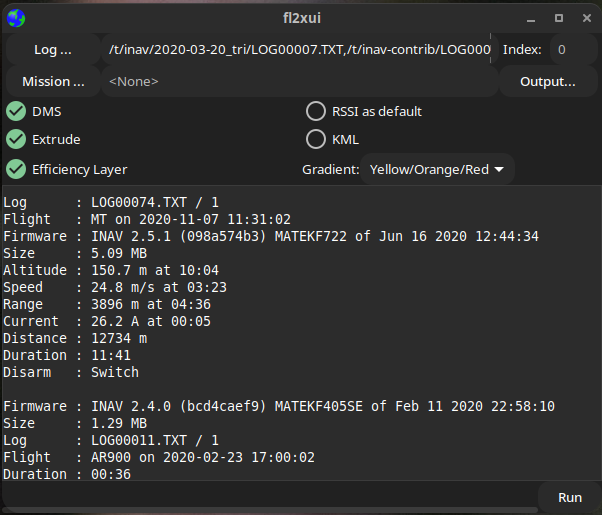
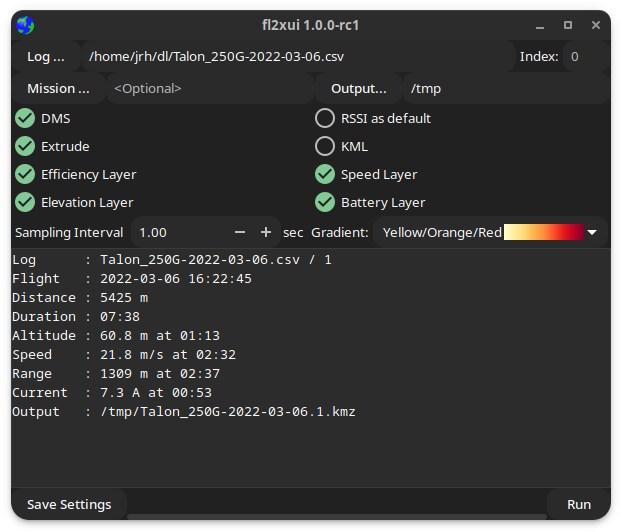
Deployed c1b7da1 with MkDocs version: 1.3.0

Changed region(s): [[0.0, 0.0, 1.0, 1.0], [0.1794, 0.1553, 0.299, 0.1864]]

diff --git a/index.html b/index.html
@@ -14,7 +14,7 @@
       
       
       <link rel="icon" href="assets/images/favicon.png">
-      <meta name="generator" content="mkdocs-1.2.3, mkdocs-material-7.3.6">
+      <meta name="generator" content="mkdocs-1.3.0, mkdocs-material-7.3.6">
     
     
       
@@ -235,8 +235,8 @@
       <ul class="md-nav__list">
         
           <li class="md-nav__item">
-  <a href="#linux-dark-theme" class="md-nav__link">
-    Linux (dark theme)
+  <a href="#linux-freebsd-dark-theme" class="md-nav__link">
+    Linux /FreeBSD (dark theme)
   </a>
   
 </li>
@@ -297,8 +297,8 @@
 </li>
         
           <li class="md-nav__item">
-  <a href="#progress-bar-and-run-button-4" class="md-nav__link">
-    Progress bar and Run button (4)
+  <a href="#progress-bar-save-settings-run-button-4" class="md-nav__link">
+    Progress bar / Save Settings / Run button (4)
   </a>
   
 </li>
@@ -413,8 +413,8 @@
       <ul class="md-nav__list">
         
           <li class="md-nav__item">
-  <a href="#linux-dark-theme" class="md-nav__link">
-    Linux (dark theme)
+  <a href="#linux-freebsd-dark-theme" class="md-nav__link">
+    Linux /FreeBSD (dark theme)
   </a>
   
 </li>
@@ -475,8 +475,8 @@
 </li>
         
           <li class="md-nav__item">
-  <a href="#progress-bar-and-run-button-4" class="md-nav__link">
-    Progress bar and Run button (4)
+  <a href="#progress-bar-save-settings-run-button-4" class="md-nav__link">
+    Progress bar / Save Settings / Run button (4)
   </a>
   
 </li>
@@ -564,7 +564,7 @@
 <h2 id="overview">Overview<a class="headerlink" href="#overview" title="Permanent link">#</a></h2>
 <p><a href="https://github.com/stronnag/fl2xui">fl2xui</a> is a cross-platform  GUI for the <a href="https://github.com/stronnag/bbl2kml">flightlog2kml</a> tool that converts (<a href="https://github.com/iNavFlight/inav">inav</a>) flight logs to beautiful, annotated KML or KMZ files for visualisation in Google Earth.</p>
 <p><a href="https://github.com/stronnag/fl2xui">fl2xui</a> provides a consistent user interface across Linux, FreeBSD, MacOS and Windows.</p>
-<h3 id="linux-dark-theme">Linux (dark theme)<a class="headerlink" href="#linux-dark-theme" title="Permanent link">#</a></h3>
+<h3 id="linux-freebsd-dark-theme">Linux /FreeBSD (dark theme)<a class="headerlink" href="#linux-freebsd-dark-theme" title="Permanent link">#</a></h3>
 <p><img alt="Linux" src="images/linux.png" width="40%" /></p>
 <h3 id="macos">MacOS<a class="headerlink" href="#macos" title="Permanent link">#</a></h3>
 <p><img alt="MacOS" src="images/macos.png" width="40%" /></p>
@@ -575,9 +575,11 @@
 <li>Multiple logs (Blackbox, OTX/ETX CSV)</li>
 <li>Summary information</li>
 <li>Easy access to common visualisation options.</li>
+<li>Save current settings as default</li>
 </ul>
 <h2 id="user-interface">User Interface<a class="headerlink" href="#user-interface" title="Permanent link">#</a></h2>
-<p><img alt="Linux" src="images/annotated-ui.png" width="60%" /></p>
+<p><img alt="Annotated UI" src="images/annotated-ui.png" width="40%" /></p>
+<p>Note: The image refers to an earlier release; however the general concept is extant.</p>
 <h3 id="file-index-selection-area-1">File / index selection area (1)<a class="headerlink" href="#file-index-selection-area-1" title="Permanent link">#</a></h3>
 <ul>
 <li><strong>Log...</strong> : Opens a file chooser to select log files. Multiple files may be selected. The files may be a combination of Blackbox logs or OpenTX / EdgeTX CSV logs.</li>
@@ -595,11 +597,14 @@
 <p>On Linux / FreeBSD, you can also drag and drop logs and mission files into this area, at least with the Gnome desktop environment.</p>
 </div>
 <ul>
-<li><strong>DMS</strong> : Display positions as degrees / minutes / seconds (<code>DD:MM:SS.sss</code>) vice decimal degress (<code>DD.dddddd</code>).</li>
+<li><strong>DMS</strong> : Display positions as degrees / minutes / seconds (<code>DD:MM:SS.sss</code>) vice decimal degrees (<code>DD.dddddd</code>).</li>
 <li><strong>Extrude</strong> : Extrude flight points the ground.</li>
-<li><strong>Efficiency Layer</strong> : Include an efficiency layer in the output.</li>
 <li><strong>RSSI as default</strong> : Set the RSSI layer as the default (vice Flight Mode).</li>
 <li><strong>KML</strong> : Generate uncompressed KML (vice compressed KMZ).</li>
+<li><strong>Efficiency Layer</strong> : Include an efficiency layer in the output.</li>
+<li><strong>Elevation Layer</strong> : Include an elevation layer in the output.</li>
+<li><strong>Speed Layer</strong> : Include a speed layer in the output.</li>
+<li><strong>Battery Layer</strong> : Include a battery (VBAT) layer in the output.</li>
 <li><strong>Gradient</strong> : Select the colour gradient for RSSI / Efficiency layer)<ul>
 <li><strong>Red</strong> - shades of red</li>
 <li><strong>Green / Red</strong> - Green (best) to red (worst)</li>
@@ -611,8 +616,9 @@
 <ul>
 <li>Output Area : Scrolled window showing process or error messages.</li>
 </ul>
-<h3 id="progress-bar-and-run-button-4">Progress bar and Run button (4)<a class="headerlink" href="#progress-bar-and-run-button-4" title="Permanent link">#</a></h3>
+<h3 id="progress-bar-save-settings-run-button-4">Progress bar / Save Settings / Run button (4)<a class="headerlink" href="#progress-bar-save-settings-run-button-4" title="Permanent link">#</a></h3>
 <ul>
+<li>Current settings may be saved as defaults</li>
 <li>Run button is enabled when log files have been selected</li>
 <li>An oscillating progress bar is displayed when a conversion is in process (after clicking "Run").</li>
 </ul>
@@ -641,7 +647,6 @@ meson install -C build
 <h3 id="windows_1">Windows<a class="headerlink" href="#windows_1" title="Permanent link">#</a></h3>
 <ul>
 <li>Win64 Installer file in the <a href="https://github.com/stronnag/fl2xui/releases">fl2xui release area</a>,  creates a desktop shortcut launcher.</li>
-<li>Win64 Zip file in the <a href="https://github.com/stronnag/fl2xui/releases">fl2xui release area</a>,  provided with shortcut launcher.</li>
 <li>Can be built from source using Msys2 (as Linux).</li>
 <li>It is recommended that <code>blackbox_decode</code> and <code>flightlog2kml</code> are in the <code>fl2xui\bin</code> directory (as in the release archive).</li>
 </ul>
@@ -666,7 +671,7 @@ meson install -C build
 <li>Homebrew or similar environment is required to build from source (as Linux).</li>
 </ul>
 <h2 id="author-and-licence">Author and Licence<a class="headerlink" href="#author-and-licence" title="Permanent link">#</a></h2>
-<p>(c) 2020 Jonathan Hudson</p>
+<p>(c) Jonathan Hudson</p>
 <p>GPL v2 or later.</p>
                 
                   
@@ -691,7 +696,7 @@ meson install -C build
       <div class="md-footer-copyright">
         
           <div class="md-footer-copyright__highlight">
-            Copyright &copy; 2014 - 2022 <a href="https://github.com/stronnag/fl2xui">Jonathan Hudson</a>
+            Copyright &copy; 2020 - 2022 <a href="https://github.com/stronnag/fl2xui">Jonathan Hudson</a>
           </div>
         
         
@@ -711,7 +716,7 @@ meson install -C build
     <div class="md-dialog" data-md-component="dialog">
       <div class="md-dialog__inner md-typeset"></div>
     </div>
-    <script id="__config" type="application/json">{"base": ".", "features": [], "translations": {"clipboard.copy": "Copy to clipboard", "clipboard.copied": "Copied to clipboard", "search.config.lang": "en", "search.config.pipeline": "trimmer, stopWordFilter", "search.config.separator": "[\\s\\-]+", "search.placeholder": "Search", "search.result.placeholder": "Type to start searching", "search.result.none": "No matching documents", "search.result.one": "1 matching document", "search.result.other": "# matching documents", "search.result.more.one": "1 more on this page", "search.result.more.other": "# more on this page", "search.result.term.missing": "Missing", "select.version.title": "Select version"}, "search": "assets/javascripts/workers/search.fcfe8b6d.min.js", "version": null}</script>
+    <script id="__config" type="application/json">{"base": ".", "features": [], "search": "assets/javascripts/workers/search.fcfe8b6d.min.js", "translations": {"clipboard.copied": "Copied to clipboard", "clipboard.copy": "Copy to clipboard", "search.config.lang": "en", "search.config.pipeline": "trimmer, stopWordFilter", "search.config.separator": "[\\s\\-]+", "search.placeholder": "Search", "search.result.more.one": "1 more on this page", "search.result.more.other": "# more on this page", "search.result.none": "No matching documents", "search.result.one": "1 matching document", "search.result.other": "# matching documents", "search.result.placeholder": "Type to start searching", "search.result.term.missing": "Missing", "select.version.title": "Select version"}, "version": null}</script>
     
     
       <script src="assets/javascripts/bundle.b1047164.min.js"></script>

diff --git a/404.html b/404.html
@@ -14,7 +14,7 @@
       
       
       <link rel="icon" href="/assets/images/favicon.png">
-      <meta name="generator" content="mkdocs-1.2.3, mkdocs-material-7.3.6">
+      <meta name="generator" content="mkdocs-1.3.0, mkdocs-material-7.3.6">
     
     
       
@@ -222,7 +222,7 @@
       <div class="md-footer-copyright">
         
           <div class="md-footer-copyright__highlight">
-            Copyright &copy; 2014 - 2022 <a href="https://github.com/stronnag/fl2xui">Jonathan Hudson</a>
+            Copyright &copy; 2020 - 2022 <a href="https://github.com/stronnag/fl2xui">Jonathan Hudson</a>
           </div>
         
         
@@ -242,7 +242,7 @@
     <div class="md-dialog" data-md-component="dialog">
       <div class="md-dialog__inner md-typeset"></div>
     </div>
-    <script id="__config" type="application/json">{"base": "/", "features": [], "translations": {"clipboard.copy": "Copy to clipboard", "clipboard.copied": "Copied to clipboard", "search.config.lang": "en", "search.config.pipeline": "trimmer, stopWordFilter", "search.config.separator": "[\\s\\-]+", "search.placeholder": "Search", "search.result.placeholder": "Type to start searching", "search.result.none": "No matching documents", "search.result.one": "1 matching document", "search.result.other": "# matching documents", "search.result.more.one": "1 more on this page", "search.result.more.other": "# more on this page", "search.result.term.missing": "Missing", "select.version.title": "Select version"}, "search": "/assets/javascripts/workers/search.fcfe8b6d.min.js", "version": null}</script>
+    <script id="__config" type="application/json">{"base": "/", "features": [], "search": "/assets/javascripts/workers/search.fcfe8b6d.min.js", "translations": {"clipboard.copied": "Copied to clipboard", "clipboard.copy": "Copy to clipboard", "search.config.lang": "en", "search.config.pipeline": "trimmer, stopWordFilter", "search.config.separator": "[\\s\\-]+", "search.placeholder": "Search", "search.result.more.one": "1 more on this page", "search.result.more.other": "# more on this page", "search.result.none": "No matching documents", "search.result.one": "1 matching document", "search.result.other": "# matching documents", "search.result.placeholder": "Type to start searching", "search.result.term.missing": "Missing", "select.version.title": "Select version"}, "version": null}</script>
     
     
       <script src="/assets/javascripts/bundle.b1047164.min.js"></script>
